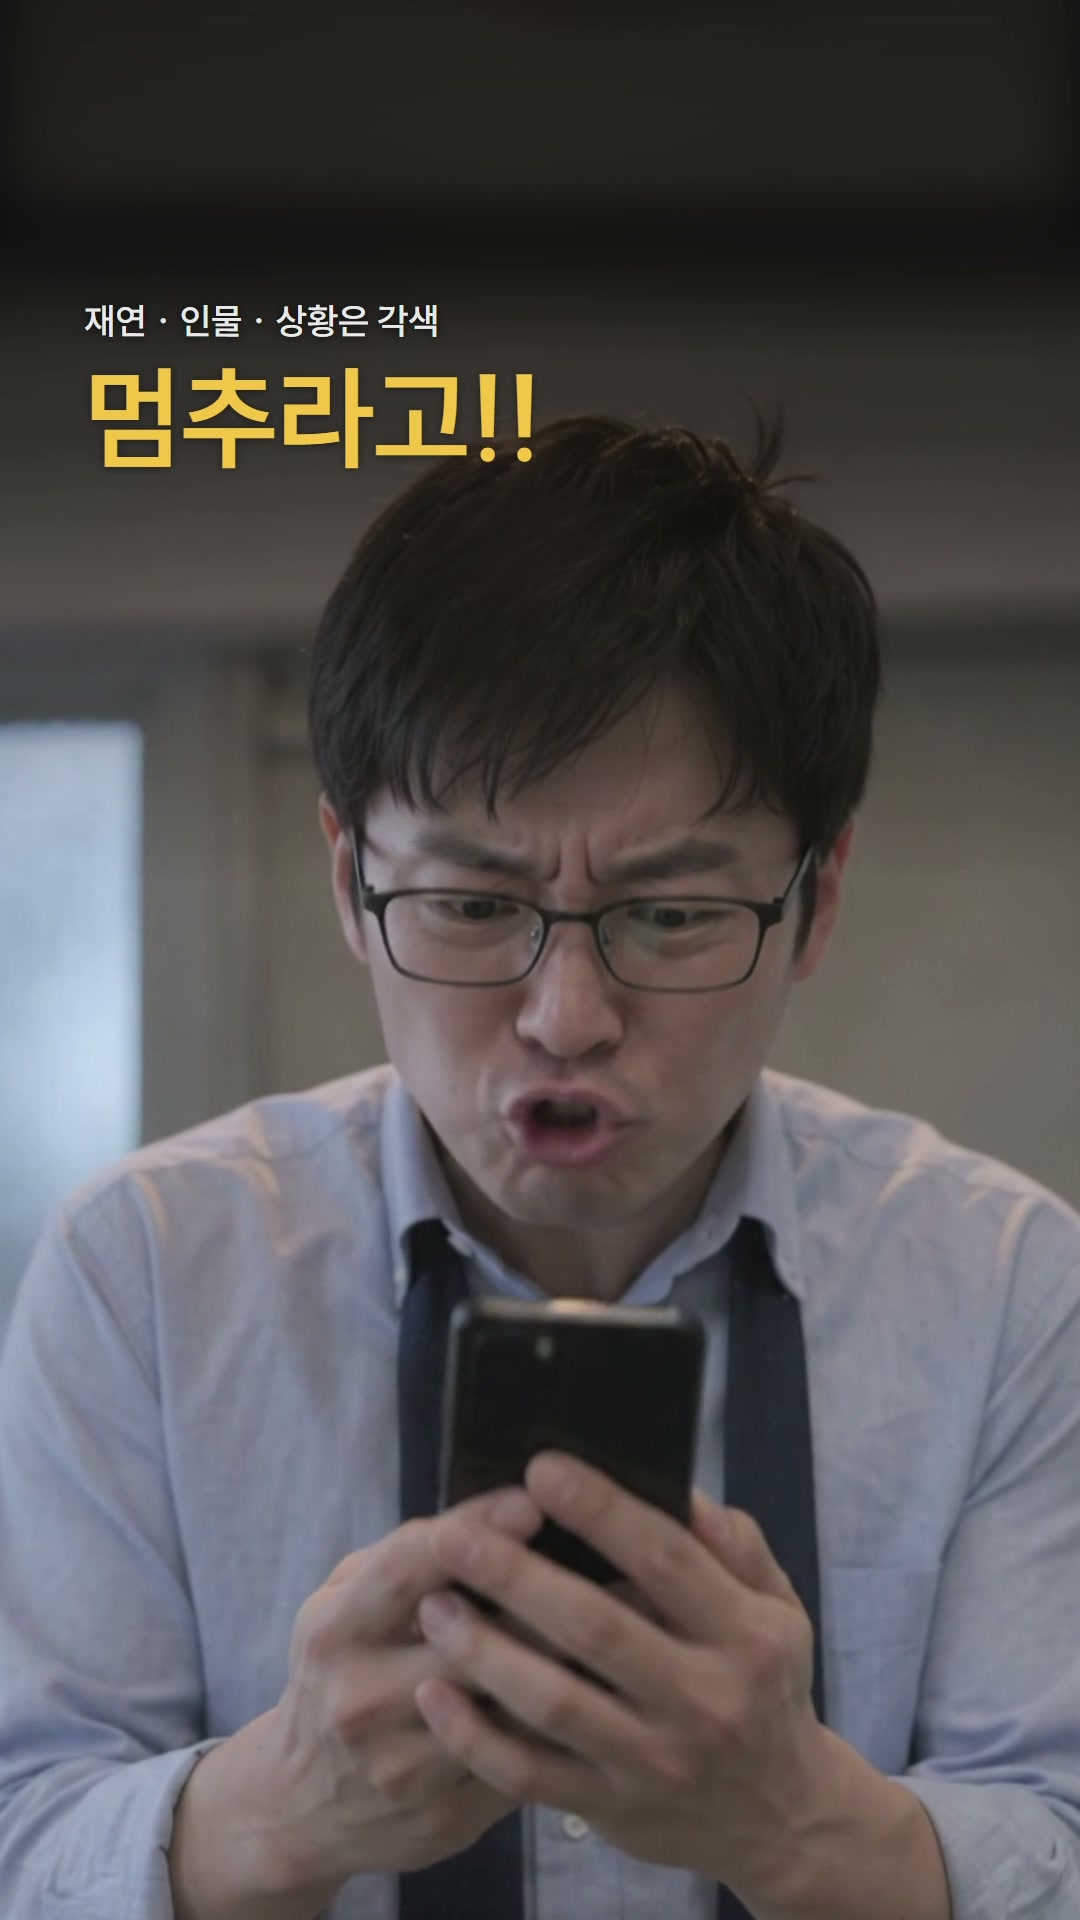
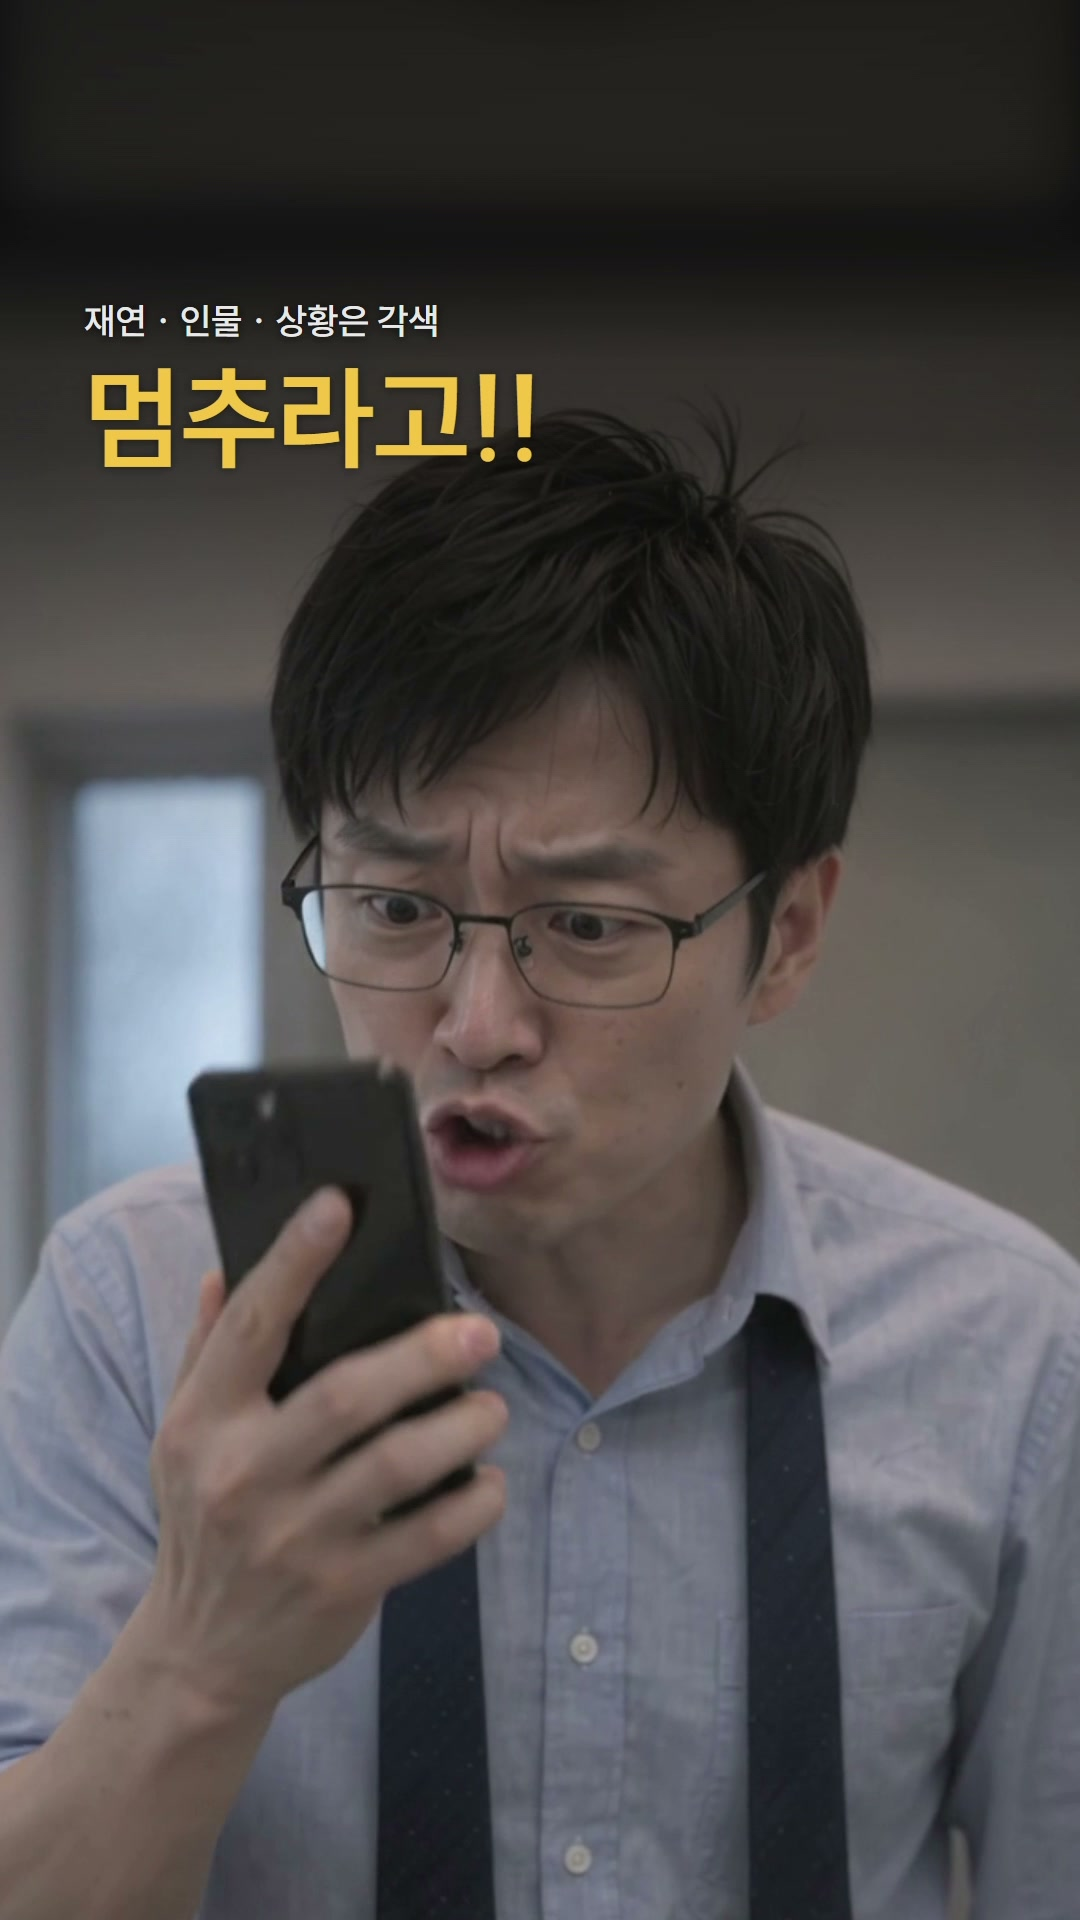
wip(synkbrief B44 메일비서 v14 · 11-14 07시 회차, 17:29에 다시 깨어남): 0시 최종 확인 미흡(안경 · 넥타이 · 소매가 컷마다 다름) 고치는 중. 옷차림 기준을 가장 긴 얼굴 컷인 끝 컷 V7에 맞췄다(가는 검은 금속테 · 매듭 없는 두 가닥 넥타이 · 팔뚝 중간까지 걷은 소매). V7 프레임을 얼굴 · 옷 참고로 현관 · 복도 · 책상 시작 그림을 다시 구웠고(GPT 이미지 · bake3, SFace 대 V7 현관 0.73→0.80 · 책상 0.39→0.55), 제미나이 앱 동영상 셋(V1n · 

diff --git a/docs/마케팅/synkbrief_메일비서_20261112/remotion/src/timeline.ts b/docs/마케팅/synkbrief_메일비서_20261112/remotion/src/timeline.ts
@@ -19,33 +19,24 @@ export const FPS = 24;
 
 const F: Crop = { s: 1.0, cx: 540, cy: 960 };
 export const CUTS: CutT[] = [
-  // 기 — 현관 · 폰 속 메일 줄이 사라짐. 말은 V1 소리(받아쓰기: 첫 말 0.90~3.76 · 「그만」 5.70 · 「멈춰!」 6.90 · 「멈추라고!」 8.30초) — 3.8초부터는 V1을 0.5초 앞당겨 깐다
-  { from: 0, to: 0.7, src: 'img/V1.mp4', start: 0.0, crop: F, drift: 0, audio: 1.0 },
-  // v9(카본 맹검 07 「안경다리가 사라짐」은 V2 전체 — 폰 판은 머리가 화면 밖으로 나가게 1.5 · 1.7배로)
-  { from: 0.7, to: 3.8, src: 'img/V2.mp4', start: 0.4, crop: { s: 1.5, cx: 420, cy: 1230 }, a: { src: 'img/V1.mp4', start: 0.7 } },
-  // 승 — 「그만」 · 「멈춰!」 · 「멈추라고!!」
-  { from: 3.8, to: 5.5, src: 'img/V1.mp4', start: 4.3, crop: { s: 1.1, cx: 540, cy: 820 }, audio: 1.0, drift: 0 },
-  { from: 5.5, to: 7.4, src: 'img/V2.mp4', start: 4.6, crop: { s: 1.7, cx: 380, cy: 1290 }, a: { src: 'img/V1.mp4', start: 6.0 }, drift: 0 },
-  // v13(Fable 컷 전수 「외침 꼬리가 9.0초 컷에서 잘림」): 이 컷 소리만 0.2초 더 흘려 줄인다(tail)
-  { from: 7.4, to: 9.0, src: 'img/V1.mp4', start: 7.9, crop: { s: 1.15, cx: 540, cy: 760 }, audio: 1.0, drift: 0, tail: 0.2 },
-  // 전 — 복도 질주(핵심 장면). 장면 심사(맥락 없는 Opus · 넘김 · 2점) 반영: 멀리서 다가오는 첫 1초와 끝의 빈 복도를 잘라 V3 1.0~6.0초만,
-  // 남는 14.0~15.7초는 책상 앞에 무릎 꿇는 V4 앞부분. V3f = V3 좌우 뒤집기(받은 판은 양말이 오른발 — 다른 컷과 맞게 왼발로, 방은 왼쪽으로 꺾어 듦)
-  // v13(11-13 19시 최종 확인 「V3f 3.0~3.35초 폰이 한 손에서 사라졌다 반대 손에 나타남(41) · 4.9~5.0초 돌아선 옆얼굴의 안경이 사라짐(33)」): 같은 시작 그림으로 세 판을 더 냈다 —
-  // V3b는 3.0초부터 양말 발이 구두로 바뀜 · V3c는 양말이 아예 없음 · V3d는 4.0초에 폰이 반대 손으로 넘어감. V3d를 좌우로 뒤집은 V3df(양말이 왼발 — 현관에서 왼쪽 구두를 손에 듦)의
-  // 0.45~3.95초(미끄러져 벽을 짚고 다시 달림 — 폰은 한 손 · 안경 · 양말 한 짝이 끝까지 맞음)만 쓰고, 문틀을 잡고 꺾어 드는 1.5초는 뺀다(달려오는 컷에서 무릎 꿇은 책상 컷으로 바로) — 뒤는 모두 1.5초 당김
-  { from: 9.0, to: 12.5, src: 'img/V3df.mp4', start: 0.45, crop: F, audio: 1.0, drift: 0.01 },
-  // V4(11-13 04:38 받음 · 77unmet): 0~2초 무릎 꿇고 손을 멀티탭에 · 2.30초 플러그 딸깍(소리 -25dB) · 3.00초 모니터가 꺼짐 · 3.42초 방이 어두워짐(밝기 곡선) — 한 판 그대로 이어 쓴다
-  // (실제로도 본체를 뽑으면 모니터는 신호가 끊긴 뒤 잠깐 있다 꺼진다). 사람 움직임 c07 0.141 · c08 0.988
-  // v11(컷 전수 「14.0~15.6초 사람이 굳고 카메라만 흐름」): 무릎 꿇는 판은 0.9초만, 손이 멀티탭으로 가는 당긴 판을 0.9초부터 길게
-  { from: 12.5, to: 13.4, src: 'img/V4.mp4', start: 0.0, crop: F, audio: 1.0, drift: 0 },
-  // 당긴 판은 아래로 내려 멀티탭 · 플러그를 화면 안에(cy 900이면 멀티탭이 잘림 — 11-13 프레임 대조)
-  // v7(11-13 카본 맹검 05 「플러그를 뽑아 쥐었는데 모니터가 그대로 켜져 있음」): 뽑는 딸깍(V4 2.30) 뒤 0.15초에 끊고, 모니터가 꺼지기 직전(V4 2.95)부터
-  // 모니터 · 얼굴 쪽으로 당긴 판으로 잇는다 — 뽑음 → 꺼짐이 컷 하나 사이에 붙는다(16.45초 컷 · 16.5초 꺼짐 · 16.9초 방이 어두워짐)
-  // v11(컷 전수 「전원선을 뽑는 손과 멀티탭이 화면 밖」): 「내림」(low 기본 210px)이 판 아래를 잘라 멀티탭이 빠졌다 — 이 판은 low 0
-  // v13(11-13 19시 최종 확인 「V4 한 판을 전체 → 1.15 → 1.3배로 세 번 — 같은 판 점프컷(50) · 플러그 순간은 각도가 다른 판으로」): 가운데 칸을 바닥 높이 손 접사 V8(플러그손 그림 · 11-13 20시 받음)로 바꾼다.
-  // 소리는 V4를 끊김 없이 그대로 깐다(a — 딸깍 V4 2.30 = 13.95초 · S.plug). V8은 0.66초에 플러그가 빠진다(소리 봉우리) — 13.4초에 0.11초부터 깔면 뽑는 순간이 V4 딸깍(13.95초)과 0.01초 안. 무릎 꿇는 V4는 0.9초(0.8초면 사람 0.112 — 0.12 아래)
-  { from: 13.4, to: 14.1, src: 'img/V8.mp4', start: 0.11, crop: F, a: { src: 'img/V4.mp4', start: 1.75 }, low: 0, drift: 0 },
-  { from: 14.1, to: 15.95, src: 'img/V4.mp4', start: 2.95, crop: { s: 1.3, cx: 450, cy: 820 }, audio: 1.0, drift: 0 },
+  // v14(11-14 0시 최종 확인 미흡 — 안경 · 넥타이 · 소매가 컷마다 다름): 옷차림 기준을 끝 컷 V7(가는 검은 금속테 · 매듭 없는 두 가닥 넥타이 · 팔뚝 중간까지 걷은 소매)에 맞추고
+  // 현관 · 복도 · 책상 시작 그림을 V7 프레임을 얼굴 · 옷 참고로 다시 구워(현관v14 · 복도v14 · 책상v14 — 같은 GPT 이미지 엔진) 제미나이 앱 동영상 셋(V1n · V3n · V4n · a 줄 77yuhbs)을 새로 냈다.
+  // 기 — 현관. V1n 받아쓰기(대본 정렬 · 소리 곡선과 맞음): 「메일 골라만 달랬지, 지우라곤 안 했잖아?」 1.52~3.92 · 구두를 놓음 3.1~3.35(떨어지는 소리 3.9) · 「그만」 5.68 · 「멈춰」 7.92 · 「멈추라고」 8.96~10.0.
+  // 그림과 소리를 함께 0.75초 당긴다(시간표 = V1n − 0.75) — 컷마다 같은 값이라 말소리가 끊기지 않는다. 「그만」(4.93초)은 얼굴 컷 안에서 들린다.
+  { from: 0, to: 0.7, src: 'img/V1n.mp4', start: 0.75, crop: F, drift: 0, audio: 1.0 },
+  { from: 0.7, to: 3.8, src: 'img/V2.mp4', start: 0.4, crop: { s: 1.5, cx: 420, cy: 1230 }, a: { src: 'img/V1n.mp4', start: 1.45 } },
+  // 승 — 「그만」 · 「멈춰!」 · 「멈추라고!!」 (V1n은 4.5초 뒤 이미 가슴 위 근접이라 당기지 않는다)
+  { from: 3.8, to: 5.5, src: 'img/V1n.mp4', start: 4.55, crop: F, audio: 1.0, drift: 0 },
+  { from: 5.5, to: 7.4, src: 'img/V2.mp4', start: 4.6, crop: { s: 1.7, cx: 380, cy: 1290 }, a: { src: 'img/V1n.mp4', start: 6.25 }, drift: 0 },
+  { from: 7.4, to: 9.0, src: 'img/V1n.mp4', start: 8.15, crop: { s: 1.05, cx: 540, cy: 760 }, audio: 1.0, drift: 0, tail: 0.25 },
+  // 전 — 복도 질주(핵심 장면). V3n은 1.0초 무렵 미끄러지며 폰 쥔 손 · 양말 발이 좌우로 바뀐다(v13 V3b~V3d와 같은 자리) — 1.0~4.25초는 한결같다
+  // (폰 왼손 · 양말 오른발 · 오른손으로 벽 짚음). 이 구간을 좌우로 뒤집은 V3nf를 쓴다: 폰은 오른손, 양말은 왼발(현관에서 왼쪽 구두를 손에 듦)로 현관과 맞는다.
+  { from: 9.0, to: 12.25, src: 'img/V3nf.mp4', start: 1.0, crop: F, audio: 1.0, drift: 0.01 },
+  // V4n: 0~2.8초 무릎 꿇고 모니터를 올려다봄(손은 플러그 위) · 2.80초 플러그 딸깍 · 3.00초 모니터와 방이 어두워짐 — 그 뒤 밝기가 튀지 않는다(옛 V4의 4.8초 튐 없음)
+  { from: 12.25, to: 13.4, src: 'img/V4n.mp4', start: 0.0, crop: F, audio: 1.0, drift: 0 },
+  // 플러그 손 접사 V8(0.66초에 플러그가 빠짐)에 V4n 소리를 끊김 없이 — 딸깍 V4n 2.80 = 13.95초(S.plug)
+  { from: 13.4, to: 14.1, src: 'img/V8.mp4', start: 0.11, crop: F, a: { src: 'img/V4n.mp4', start: 2.25 }, low: 0, drift: 0 },
+  { from: 14.1, to: 15.95, src: 'img/V4n.mp4', start: 2.95, crop: { s: 1.3, cx: 600, cy: 820 }, audio: 1.0, drift: 0 },
   // 결 — 잠시 뒤 다시 켠 방 넓게(폰이 켜짐 · 사과) → 폰 속 메일이 사라지던 화면(해설 첫 줄) → 다시 켠 방 가깝게(해설 끝 줄 · 고개를 젖힘)
   // v7: V5 0~2.9초는 카메라만 다가가고 사람이 굳어(사람움직임 0.023 — 점검표 26) 같은 시작 그림으로 V6을 새로 냄(11-13 06:15 · 77unmet): 0.15초 진동(V6 소리) · 0.5~1초 폰을 들어 읽음, 사람 0.139
   // v11(컷 전수 「19초부터 끝까지 얼굴이 둥글고 안경테가 가늘어 다른 사람 · c11 폰이 하늘색 판으로 바뀜」): 옛 끝방 그림이 넓은 판이라 얼굴이 작아
@@ -70,10 +61,10 @@ export const CUTS: CutT[] = [
 // 11-13 올리기 전 검사: 오른쪽 단추 자리(안전선 920px) — 「메일 200통…」 80 → 74 · 끝 출처 줄 40 → 37, 끝 석 줄은 deep(그늘 꼬리를 늘림).
 // 큰 글자 = 말. grey = AI의 사과(남자 · 해설은 흰). at = 줄마다 뜨는 초(말하는 때). butter = 그 편에서 버터를 쓰는 한 줄(첫 줄).
 export const LINES: { lines: string[]; from: number; to: number; grey?: boolean; size?: number; meta?: string; metaSize?: number; deep?: boolean; instant?: boolean; at?: number[]; butter?: boolean }[] = [
-  { lines: ['메일 골라만 달랬지,', '지우라곤 안 했잖아?'], from: 0.85, to: 3.8, size: 84, meta: '2026년 2월, 미국에서 실제로 있었던 일', at: [0.85, 2.6] },
-  { lines: ['그만'], from: 5.55, to: 6.85, size: 96, instant: true },
-  { lines: ['멈춰!'], from: 6.88, to: 8.2, size: 104, instant: true },
-  { lines: ['멈추라고!!'], from: 8.23, to: 9.3, size: 112, instant: true, butter: true },
+  { lines: ['메일 골라만 달랬지,', '지우라곤 안 했잖아?'], from: 0.77, to: 3.8, size: 84, meta: '2026년 2월, 미국에서 실제로 있었던 일', at: [0.77, 2.05] },
+  { lines: ['그만'], from: 4.93, to: 7.1, size: 96, instant: true },
+  { lines: ['멈춰!'], from: 7.17, to: 8.18, size: 104, instant: true },
+  { lines: ['멈추라고!!'], from: 8.21, to: 9.3, size: 112, instant: true, butter: true },
   // v5: 복도 질주에 왜 뛰는지(이해 시험관 둘 「10~19초 왜 뛰는지 모름」) — 큰 글 없이 출처 자리 작은 줄만
   { lines: [], from: 9.3, to: 14.1, meta: '말로는 안 멈춰서, AI가 도는 컴퓨터를 끄러', metaSize: 36 }, // v7: v6 시험 「10~18초 왜 컴퓨터를 끄면 멈추나 · 끄는 동작이 안 보임」 둘 — 뽑는 컷까지 잇고 「AI가 도는 컴퓨터」
   { lines: ['맞아요, 하지 말라고 하셨죠', '제가 어겼어요 죄송합니다'], from: 16.0, to: 17.8, grey: true, size: 74, meta: '다시 켜고 AI 비서에게 따지자 온 답장', at: [16.0, 16.35] }, // v13: 사과 글은 폰 화면 판과 함께 · 외침 글자는 소리 시작(5.55 · 6.9 · 8.25초 — Fable 컷 전수 「글이 소리보다 0.4~0.55초 먼저」)에 맞춤 · v9: v8 시험 둘 「AI의 말인지 인물의 생각인지 모호」 · v10: v9 GPT 「꺼진 모니터가 다시 켜져 있음」 — 「다시 켜고」를 되살림
@@ -90,5 +81,6 @@ export const VO: { id: string; t: number }[] = [
 // 폰 진동(11-13 · 컷 연속성 [소리] 걸림 둘 — 0초 진동이 섞음에서 안 튐 · 사과 진동 → 반응 0.39초): 가짜의사 편 진동음의 첫 떨림(0.44초)을
 // 0초(현관 · 폰을 집어 봄)에 깐다 — 19초 사과 진동은 v7부터 V6에 든 진동(19.15초)을 그대로 쓴다
 export const SOUNDS: { t: number; vol: number; src: string; dur?: number }[] = [
-  { t: 0.0, vol: 0.55, src: 'sfx/buzz.wav', dur: 11 },
+  // v14: 새 현관 컷(V1n)은 첫 말이 0.77초로 0.1초 이르고 목소리가 커서, 연속성 검사 「0초 진동이 바탕보다 4.7dB만 튐」 — 0.55 → 0.8(약 +3dB)
+  { t: 0.0, vol: 0.8, src: 'sfx/buzz.wav', dur: 11 },
 ];
